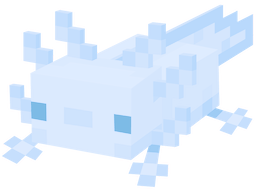
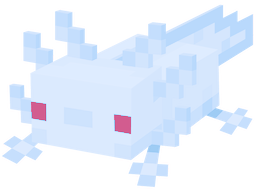
feat: wiki 核对官方配色——修正 cyan 粉鳃 + 补入被砍的预告片绿色变体（抹茶），七色家族

Changed region(s): [[0.4375, 0.6021, 0.5312, 0.7068], [0.0938, 0.5236, 0.1875, 0.6283]]

diff --git a/src/content.config.ts b/src/content.config.ts
@@ -8,8 +8,10 @@ const blog = defineCollection({
     description: z.string(),
     pubDate: z.coerce.date(),
     tags: z.array(z.string()).default([]),
-    /** 卡片装饰美西螈的颜色（六色：Minecraft 官方五色 + 站点二创紫） */
-    accent: z.enum(['pink', 'purple', 'wild', 'cyan', 'gold', 'blue']).default('pink'),
+    /** 卡片装饰美西螈的颜色（官方五色 + 预告片绿色 + 站点二创紫） */
+    accent: z
+      .enum(['pink', 'purple', 'wild', 'cyan', 'gold', 'blue', 'green'])
+      .default('pink'),
   }),
 });
 

diff --git a/HANDOFF.md b/HANDOFF.md
@@ -5,8 +5,9 @@
 ## 当前状态
 
 - 工程：D:\zcodework\blog / Astro 5.18.2 纯静态博客 / 主题：Minecraft 紫粉美西螈
-- 进度：**阶段 1-5 完成 ✅ + 启动器吉祥物 ✅ + 加载界面 ✅ + 六色美西螈家族（官方配色）✅**
-  - 六色家族：pink=启动器原图；purple 紫二创；wild/cyan/gold/blue 采样自 **Minecraft 1.18 官方贴图**（从 `D:\PCL 正式版 2.10.3\.minecraft\versions\1.18\1.18.jar` 的 entity/axolotl 目录提取，`scripts/sample-official.mjs` 采样色板锚点，`scripts/generate-variants.mjs` 亮度阶梯重上色生成位图）。CSS 滤镜方案已退役删除。展示位：关于页池塘住民四只（汽水/焦糖/栗子/蓝图）、404 六只、文章卡片 accent 六色轮换、加载层粉/紫
+- 进度：**阶段 1-5 完成 ✅ + 启动器吉祥物 ✅ + 加载界面 ✅ + 七色美西螈家族（官方全色 + wiki 核对）✅**
+  - wiki 核对结论（minecraft.wiki）：官方五色 = lucy 粉 / wild 棕 / gold 金 / cyan 青·**粉鳃** / blue 蓝（gold 是正式变体非废案）；唯一未进游戏的官方色是 **green 绿**（Minecraft Live 2020 预告片后被砍）→ 已作为彩蛋成员加入
+  - 七色家族：pink=启动器原图；purple 紫二创；wild/cyan/gold/blue 采样自 1.18.jar 官方贴图（cyan 用鳃部独立色带还原粉鳃）；green 手调色板。生成器 `scripts/generate-variants.mjs` 支持 `gill` 色带。展示位：关于页住民五只（汽水/焦糖/栗子/蓝图/抹茶）、404 七只、文章卡片 accent 轮换、加载层粉/紫
   - 加载界面（splash）：进入站点时美西螈摆尾 + 水泡上浮 + Minecraft 方块进度条 + 「正在游向池塘」；页面 load 后最少展示 0.7s 淡出（3s 兜底，prefers-reduced-motion 跳过最短展示）；sessionStorage `axo-splash-seen` 会话内只展示一次；展示哪只螈由 `<head>` 引导脚本按主题映射（pink-soft→粉 / purple-pixel→紫 / lumen-cave→每次随机），标记为 `html[data-splash]`
   - 吉祥物来源：Axolotl Launcher（D:\AxolotlLauncher）应用图标，`PrivateExtractIcons` 提取 256×256 版本，裁掉透明边距后放 `public/assets/axolotl-launcher.png`（256×191）；紫色变体 = CSS `hue-rotate(-55deg)`，无独立位图
   - 提取中间产物在 design-assets/（已 gitignore）：75 张 webp 是启动器内嵌的群系悬浮岛图标（与美西螈无关），JPEG 是 UI 截图，唯一美西螈形象就是 exe 图标

diff --git a/AGENTS.md b/AGENTS.md
@@ -2,7 +2,7 @@
 
 > 领域特有规则写在这里。通用纪律见用户级 `~/.zcode/AGENTS.md`（事实源判定/回合纪律/重试熔断/破坏性操作确认/验收即宪法/git 纪律/备份），对所有项目自动生效。
 
-- 美西螈吉祥物组件（`src/components/Axolotl.astro`）是全站视觉核心：粉色为 Axolotl Launcher 应用图标原图（`public/assets/axolotl-launcher.png`，用户指定），其余五色变体（紫二创 / wild 棕 / cyan 青 / gold 金 / blue 蓝）由 `node scripts/generate-variants.mjs` 按官方贴图采样色板重上色生成——改色先改脚本里的 RAMPS 再重新生成，不要手改位图、不要再引入 CSS 滤镜方案。改动需同时检查三个主题（pink-soft / purple-pixel / lumen-cave）下的呈现。
+- 美西螈吉祥物组件（`src/components/Axolotl.astro`）是全站视觉核心：粉色为 Axolotl Launcher 应用图标原图（`public/assets/axolotl-launcher.png`，用户指定），其余六色变体（紫二创 / wild 棕 / cyan 青·粉鳃 / gold 金 / blue 蓝 / green 预告片彩蛋）由 `node scripts/generate-variants.mjs` 按官方贴图采样色板重上色生成——改色先改脚本里的 RAMPS 再重新生成，不要手改位图、不要引入 CSS 滤镜方案。改动需同时检查三个主题（pink-soft / purple-pixel / lumen-cave）下的呈现。
 - 除吉祥物资源外，站点零外部图片依赖：其余美术一律内联 SVG/CSS，新增图片资源需先征得同意。
 - 主题切换必须持久化（localStorage），且 `<head>` 内联引导脚本防闪烁逻辑不能移除。
 - 所有视觉改动完成后必须开 preview 截图过目（3 主题 × 关键页），截图作为验收证据。
